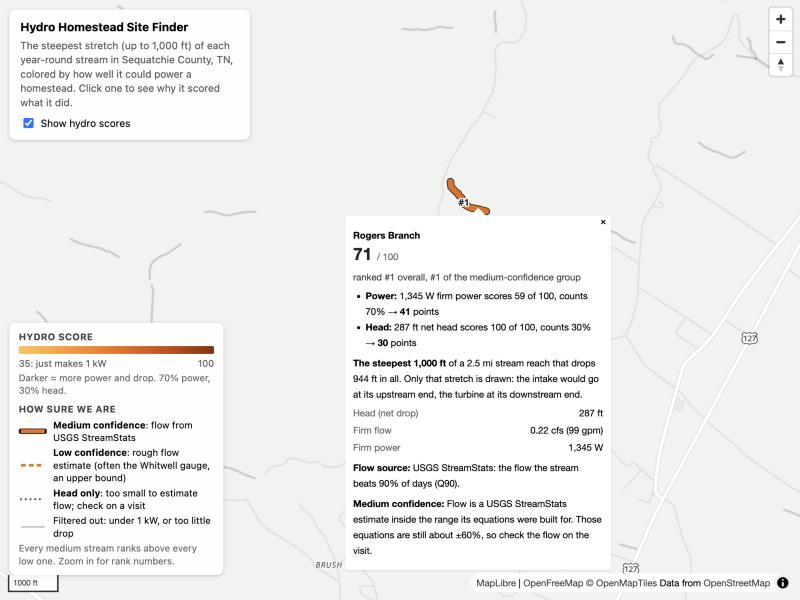
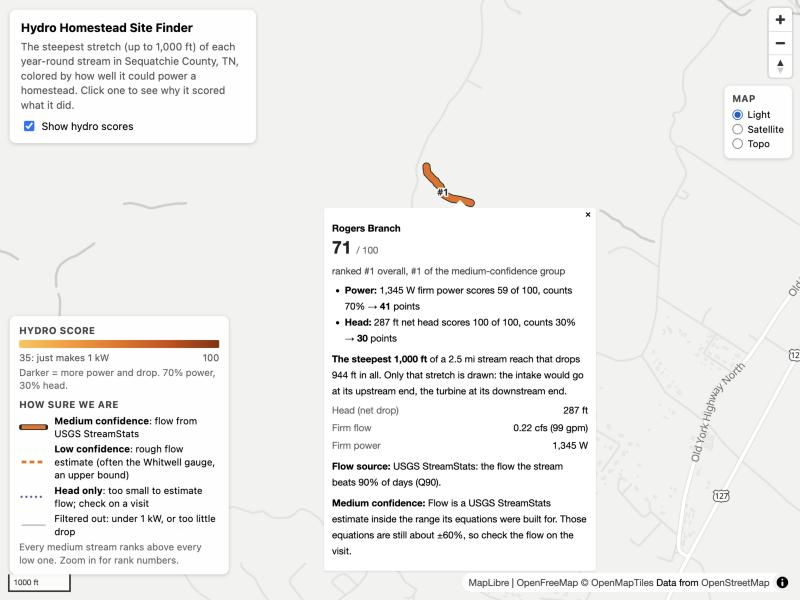
PART 11: Light, satellite and topo basemap switcher
A "Map" box at the top right switches the map underneath between the
OpenFreeMap positron style (Light), USGS National Map imagery (Satellite)
and USGS Topo. Satellite shows access roads, clearings and houses for
scouting a visit; topo shows contours.

- The USGS tile services are added once as raster layers under the light
  style's labels and toggled by visibility, so the county, stream and
  score layers survive (setStyle would wipe them). Satellite keeps the
  place and road names on top; topo hides them (it has its own).
- Hiding the light style's layers drops its credit, so the attribution
  follows the visible basemap.
- Streams and scored stretches get a white halo on satellite and topo;
  the county line turns white on imagery.
- The choice is remembered in localStorage (try/catch for blocked storage).
- On phones the title panel narrows so it doesn't cover the switcher.
- config/data_sources.yaml records both basemap sources: URL pattern,
  max zoom 16, public domain, attribution. README map section and
  screenshots updated.

diff --git a/frontend/src/App.tsx b/frontend/src/App.tsx
@@ -1,10 +1,10 @@
 import { useEffect, useRef, useState } from "react";
-import maplibregl, { type MapGeoJSONFeature } from "maplibre-gl";
+import maplibregl, { type ExpressionSpecification, type MapGeoJSONFeature } from "maplibre-gl";
+import { BasemapSwitcher } from "./BasemapSwitcher";
+import { LIGHT_STYLE, addBasemapLayers, saveBasemap, savedBasemap, showBasemap } from "./basemaps";
 import { Legend } from "./Legend";
 import { CFS_TO_GPM, SCORE_LAYERS, scorePopupHtml } from "./scores";
 
-// Free basemap, no API key needed.
-const BASEMAP = "https://tiles.openfreemap.org/styles/positron";
 const TILES = `${window.location.origin}/tiles`;
 
 const M_TO_FT = 3.28084;
@@ -12,6 +12,13 @@ const SQKM_TO_ACRES = 247.105;
 
 function fmt(value: unknown, scale = 1, digits = 0): string {
   return typeof value === "number" ? (value * scale).toLocaleString(undefined, { maximumFractionDigits: digits }) : "—";
+}
+
+// Bigger streams (higher order) draw wider; `extra` widens the line for its halo.
+function streamWidth(extra = 0): ExpressionSpecification {
+  const byOrder = (low: number, high: number): ExpressionSpecification =>
+    ["+", ["interpolate", ["linear"], ["get", "stream_order"], 1, low, 5, high], extra];
+  return ["interpolate", ["linear"], ["zoom"], 9, byOrder(1, 3), 14, byOrder(2.5, 7)];
 }
 
 function popupHtml(f: MapGeoJSONFeature): string {
@@ -36,7 +43,7 @@ function popupHtml(f: MapGeoJSONFeature): string {
 function setScoresVisible(map: maplibregl.Map, visible: boolean) {
   const show = (on: boolean) => (on ? "visible" : "none");
   for (const layer of SCORE_LAYERS) map.setLayoutProperty(layer.id, "visibility", show(visible));
-  map.setLayoutProperty("streams", "visibility", show(!visible));
+  for (const layer of ["streams-halo", "streams"]) map.setLayoutProperty(layer, "visibility", show(!visible));
 }
 
 export function App() {
@@ -44,11 +51,13 @@ export function App() {
   const mapRef = useRef<maplibregl.Map>();
   const [showScores, setShowScores] = useState(true);
   const showScoresRef = useRef(showScores);
+  const [basemap, setBasemap] = useState(savedBasemap);
+  const basemapRef = useRef(basemap);
 
   useEffect(() => {
     const map = new maplibregl.Map({
       container: container.current!,
-      style: BASEMAP,
+      style: LIGHT_STYLE,
       center: [-85.42, 35.36],
       zoom: 10,
     });
@@ -57,6 +66,7 @@ export function App() {
     map.addControl(new maplibregl.ScaleControl({ unit: "imperial" }));
 
     map.on("load", () => {
+      addBasemapLayers(map);
       map.addSource("counties", { type: "vector", tiles: [`${TILES}/counties/{z}/{x}/{y}`] });
       map.addSource("streams", { type: "vector", tiles: [`${TILES}/streams/{z}/{x}/{y}`] });
       map.addSource("scores", {
@@ -72,6 +82,16 @@ export function App() {
         paint: { "line-color": "#555", "line-width": 1.5, "line-dasharray": [3, 2] },
       });
 
+      // A white outline so streams stand out on imagery; showBasemap() sets how strong.
+      map.addLayer({
+        id: "streams-halo",
+        type: "line",
+        source: "streams",
+        "source-layer": "streams",
+        layout: { "line-cap": "round", "line-join": "round" },
+        paint: { "line-color": "#fff", "line-opacity": 0, "line-width": streamWidth(2) },
+      });
+
       // Bigger streams (higher order) draw wider and darker.
       map.addLayer({
         id: "streams",
@@ -81,15 +101,7 @@ export function App() {
         layout: { "line-cap": "round", "line-join": "round" },
         paint: {
           "line-color": ["interpolate", ["linear"], ["get", "stream_order"], 1, "#6baed6", 5, "#08306b"],
-          "line-width": [
-            "interpolate",
-            ["linear"],
-            ["zoom"],
-            9,
-            ["interpolate", ["linear"], ["get", "stream_order"], 1, 1, 5, 3],
-            14,
-            ["interpolate", ["linear"], ["get", "stream_order"], 1, 2.5, 5, 7],
-          ],
+          "line-width": streamWidth(),
         },
       });
 
@@ -105,6 +117,7 @@ export function App() {
       // Every perennial stream has a scored corridor, so the scores replace the streams layer when shown.
       for (const layer of SCORE_LAYERS) map.addLayer(layer);
       setScoresVisible(map, showScoresRef.current);
+      showBasemap(map, basemapRef.current);
 
       // With scores on, a click explains the score; with them off, it shows the stream's numbers.
       map.on("click", (e) => {
@@ -130,6 +143,12 @@ export function App() {
     if (mapRef.current?.getLayer("scores-hit")) setScoresVisible(mapRef.current, showScores);
   }, [showScores]);
 
+  useEffect(() => {
+    basemapRef.current = basemap;
+    saveBasemap(basemap);
+    if (mapRef.current?.getLayer("scores-hit")) showBasemap(mapRef.current, basemap);
+  }, [basemap]);
+
   return (
     <>
       <div ref={container} className="map" />
@@ -145,6 +164,7 @@ export function App() {
           Show hydro scores
         </label>
       </div>
+      <BasemapSwitcher value={basemap} onChange={setBasemap} />
       {showScores && <Legend />}
     </>
   );

diff --git a/frontend/src/basemaps.ts b/frontend/src/basemaps.ts
@@ -1,0 +1,105 @@
+// The map types under the data: the OpenFreeMap style the map loads with, plus USGS National Map
+// imagery and topo drawn as raster layers on top of it. Switching only changes layer visibility:
+// map.setStyle() would wipe the counties, streams and score layers. See config/data_sources.yaml.
+import type maplibregl from "maplibre-gl";
+
+export const LIGHT_STYLE = "https://tiles.openfreemap.org/styles/positron";
+
+const USGS = "https://basemap.nationalmap.gov/arcgis/rest/services";
+const USGS_CREDIT = '<a href="https://www.usgs.gov/programs/national-geospatial-program/national-map" target="_blank">USGS The National Map</a>';
+
+export interface Basemap {
+  id: string;
+  label: string;
+  // USGS tile service drawn over the light style; none for the light style itself.
+  service?: string;
+  attribution?: string;
+  // Keep the light style's place and road names on top (the topo map has its own).
+  labels: boolean;
+  // How strongly to outline streams so they stand out from the background (0 = no outline).
+  halo: number;
+  boundaryColor: string;
+}
+
+export const BASEMAPS: Basemap[] = [
+  { id: "light", label: "Light", labels: true, halo: 0, boundaryColor: "#555" },
+  {
+    id: "satellite",
+    label: "Satellite",
+    service: "USGSImageryOnly",
+    attribution: `${USGS_CREDIT}: Orthoimagery`,
+    labels: true,
+    halo: 0.9,
+    boundaryColor: "#fff",
+  },
+  {
+    id: "topo",
+    label: "Topo",
+    service: "USGSTopo",
+    attribution: `${USGS_CREDIT}: US Topo`,
+    labels: false,
+    halo: 0.8,
+    boundaryColor: "#555",
+  },
+];
+
+const STORAGE_KEY = "hhsf.basemap";
+
+export function savedBasemap(): string {
+  try {
+    const id = localStorage.getItem(STORAGE_KEY);
+    if (id && BASEMAPS.some((b) => b.id === id)) return id;
+  } catch {
+    // Storage blocked (private window, settings): start on the light map.
+  }
+  return BASEMAPS[0].id;
+}
+
+export function saveBasemap(id: string) {
+  try {
+    localStorage.setItem(STORAGE_KEY, id);
+  } catch {
+    // Not remembered next time; nothing else to do.
+  }
+}
+
+// Ids of the light style's own layers, recorded before any of ours are added.
+let styleLayers: { id: string; label: boolean }[] = [];
+
+// Call once on load, before adding the data layers. The USGS layers go just under the light style's
+// labels, so on satellite the names still draw over the imagery.
+export function addBasemapLayers(map: maplibregl.Map) {
+  const layers = map.getStyle().layers;
+  styleLayers = layers.map((l) => ({ id: l.id, label: l.type === "symbol" }));
+  const firstLabel = layers.find((l) => l.type === "symbol")?.id;
+  for (const b of BASEMAPS) {
+    if (!b.service) continue;
+    map.addSource(`basemap-${b.id}`, {
+      type: "raster",
+      tiles: [`${USGS}/${b.service}/MapServer/tile/{z}/{y}/{x}`],
+      tileSize: 256,
+      // USGS caches stop at zoom 16; MapLibre stretches those tiles past it.
+      maxzoom: 16,
+      attribution: b.attribution,
+    });
+    map.addLayer(
+      { id: `basemap-${b.id}`, type: "raster", source: `basemap-${b.id}`, layout: { visibility: "none" } },
+      firstLabel,
+    );
+  }
+}
+
+// Shows one basemap. Hidden layers drop their source's credit, so the attribution follows along.
+export function showBasemap(map: maplibregl.Map, id: string) {
+  const basemap = BASEMAPS.find((b) => b.id === id) ?? BASEMAPS[0];
+  const show = (on: boolean) => (on ? "visible" : "none");
+  for (const b of BASEMAPS) {
+    if (b.service) map.setLayoutProperty(`basemap-${b.id}`, "visibility", show(b === basemap));
+  }
+  // The light style is hidden under the USGS maps (except its labels where wanted), so its credit goes too.
+  for (const l of styleLayers) {
+    map.setLayoutProperty(l.id, "visibility", show(!basemap.service || (l.label && basemap.labels)));
+  }
+  for (const halo of ["streams-halo", "scores-halo"]) map.setPaintProperty(halo, "line-opacity", basemap.halo);
+  map.setPaintProperty("county-outline", "line-color", basemap.boundaryColor);
+}

diff --git a/frontend/src/scores.ts b/frontend/src/scores.ts
@@ -30,12 +30,30 @@ function width(scale: number, extra = 0): ExpressionSpecification {
   return ["interpolate", ["linear"], ["zoom"], 9, 1.5 * scale + extra, 12, 3 * scale + extra, 15, 6 * scale + extra];
 }
 
+// A white outline under the shortlisted tiers, 2 px wider than each tier's line (and its casing) on
+// both sides; 1 px for head-only streams, which are many and would otherwise turn into white blobs.
+// Only drawn on the satellite and topo basemaps (src/basemaps.ts sets its opacity).
+function haloWidth(): ExpressionSpecification {
+  const tier = (medium: number, low: number, headOnly: number): ExpressionSpecification =>
+    ["match", ["get", "tier"], "medium", medium, "low", low, headOnly];
+  const at = (base: number): ExpressionSpecification => ["+", ["*", base, tier(1.6, 1.1, 0.8)], tier(4, 4, 2)];
+  return ["interpolate", ["linear"], ["zoom"], 9, at(1.5), 12, at(3), 15, at(6)];
+}
+
 const SOURCE = { source: "scores", "source-layer": "latest_hydro_scores" } as const;
 const ROUND = { "line-cap": "round", "line-join": "round" } as const;
 
-// Bottom to top: filtered-out, head only, low, medium. One layer per tier so each gets its own
+// Bottom to top: halo, filtered-out, head only, low, medium. One layer per tier so each gets its own
 // line style (MapLibre can't vary dashes per feature).
 export const SCORE_LAYERS: LayerSpecification[] = [
+  {
+    id: "scores-halo",
+    type: "line",
+    ...SOURCE,
+    filter: ["has", "tier"],
+    layout: ROUND,
+    paint: { "line-color": "#fff", "line-opacity": 0, "line-width": haloWidth() },
+  },
   {
     id: "scores-filtered",
     type: "line",

diff --git a/frontend/src/styles.css b/frontend/src/styles.css
@@ -170,9 +170,54 @@ body,
   font-size: 12px;
 }
 
+/* Top right, under MapLibre's zoom and compass buttons (3 × 29 px plus their 10 px margin). */
+.basemaps {
+  position: absolute;
+  top: 107px;
+  right: 10px;
+  margin: 0;
+  padding: 8px 10px;
+  border: 0;
+  background: rgba(255, 255, 255, 0.95);
+  border-radius: 8px;
+  box-shadow: 0 1px 4px rgba(0, 0, 0, 0.2);
+  font-size: 12px;
+  line-height: 1.35;
+}
+
+.basemaps legend {
+  float: left;
+  margin: 0 0 4px;
+  padding: 0;
+  font-size: 12px;
+  font-weight: 700;
+  text-transform: uppercase;
+  letter-spacing: 0.04em;
+  color: #444;
+}
+
+.basemaps label {
+  clear: left;
+  display: flex;
+  gap: 6px;
+  align-items: center;
+  margin: 2px 0;
+  cursor: pointer;
+}
+
+.basemaps input {
+  margin: 0;
+}
+
 @media (max-width: 600px) {
   .legend {
     width: auto;
     right: 12px;
+  }
+
+  /* Leave the right-hand column to the map buttons and the basemap picker. */
+  .panel {
+    max-width: none;
+    right: 107px;
   }
 }

diff --git a/frontend/src/BasemapSwitcher.tsx b/frontend/src/BasemapSwitcher.tsx
@@ -1,0 +1,17 @@
+import { BASEMAPS } from "./basemaps";
+
+// Picks the map under the data: light for reading the scores, satellite for roads, clearings and
+// houses, topo for contours.
+export function BasemapSwitcher({ value, onChange }: { value: string; onChange: (id: string) => void }) {
+  return (
+    <fieldset className="basemaps">
+      <legend>Map</legend>
+      {BASEMAPS.map((b) => (
+        <label key={b.id}>
+          <input type="radio" name="basemap" value={b.id} checked={value === b.id} onChange={() => onChange(b.id)} />
+          {b.label}
+        </label>
+      ))}
+    </fieldset>
+  );
+}
